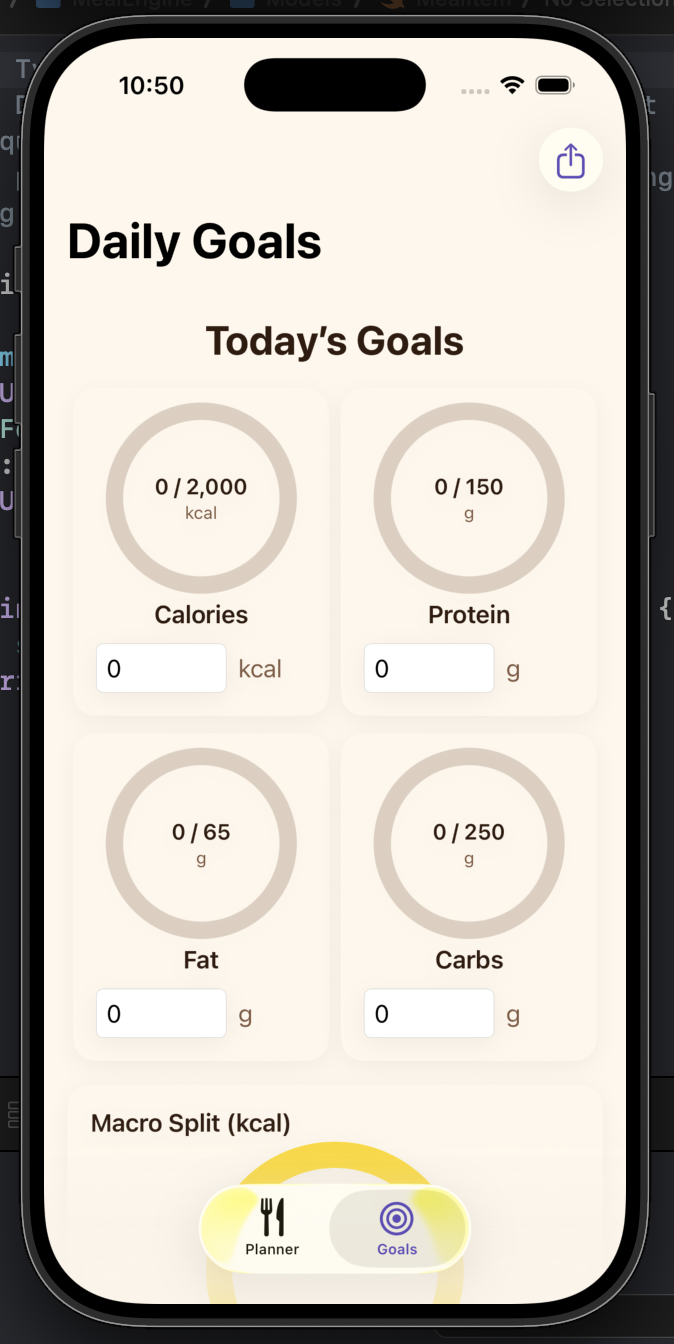
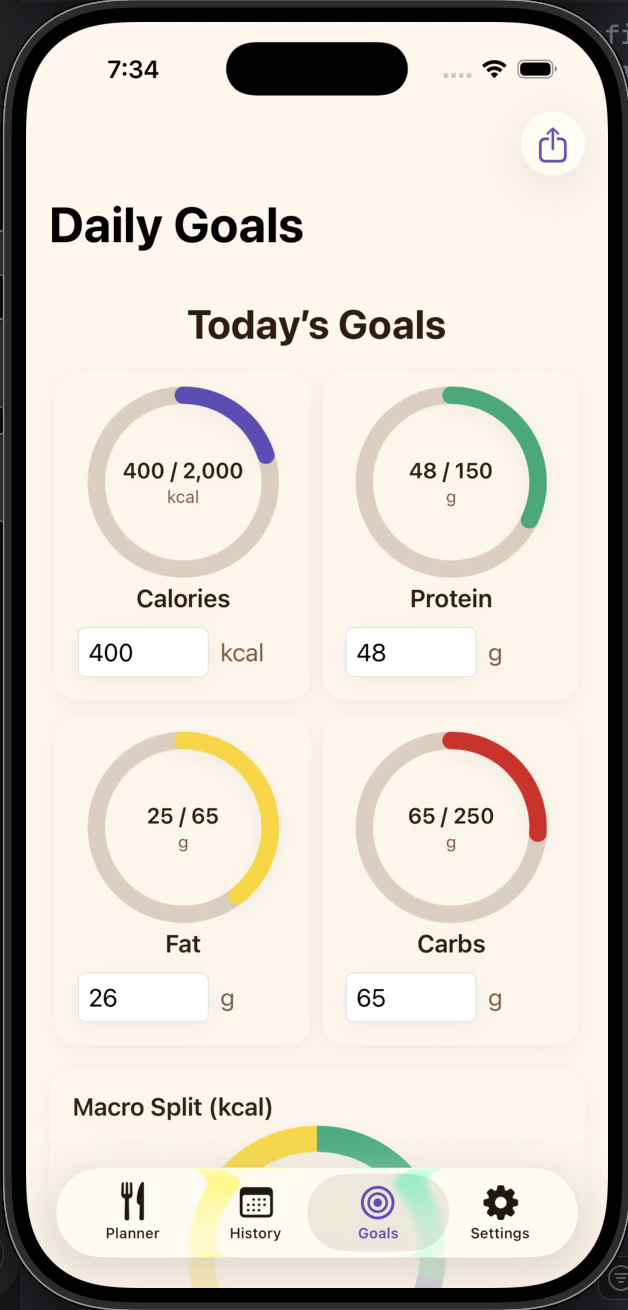
recover: restore README.md from dangling commit d2a2eb7

diff --git a/README.md b/README.md
@@ -1,31 +1,45 @@
 # MealEngine
-
-**MealEngine** is a Swift-based iOS app designed to help users optimize their meals based on personal health and dietary goals. Built with SwiftUI and leveraging the power of algorithms and persistent data storage, MealEngine provides a personalized meal-planning experience.
+**MealEngine** is a Swift-based iOS app designed to help users **meet their dietary goals before (not after) meals are consumed**. Unlike traditional calorie trackers that analyze past behavior, MealEngine meets and supports users where they are. The app leverages a Knapsack optimization algorithm to recommend meals in real time that respect user-defined goals.
 
 ---
 
 ## App Features
+1. **Personalized Goal Engine**
+• Calculates TDEE (Total Daily Energy Expenditure)
+• Defines calorie and macronutrient targets
 
-- ⚖**Optimizes meal plans** using the **Knapsack algorithm** to balance nutrition (calories, protein, fat, carbs) according to user-defined goals.
-- **Integrates with a food API** to fetch real-world food data.
-- **Persistent storage** to save user preferences and meal plans locally.
-- Beautiful UI with **3 custom colors** and a clean, modern layout.
-- Utilizes 4 data types:  
-  - `Double` for quantities and calorie counts  
-  - `String` for food names and user preferences  
-  - `Bool` for dietary filters and toggles  
-  - Custom `Food` type for modeling nutrition info
-- **3 Main Screens**:
-  - **Welcome / Goal Setup** – set dietary goals and preferences
-  - **Meal Planner** – select, edit, and generate meal plans
-  - **Summary / Recommendations** – view optimized meals and stats
+2. **Knapsack Optimization Algorithm**
+• **Selects optimal food combinations** to meet calorie, protein, fat, or carbs target
+• Maximizes nutrition while respecting constraints
+
+3. **Real-Time Food Data Integration**
+• Fetches nutritional data from external Food API
+• Supports a wide range of food options
+
+4. **User Persistence**
+• Stores dietary preferences and restrictions locally
+• Maintains historical data for contunuity
+
+5. **Core Views**
+• Planner View - Home page for user good and target selection
+• Calendar View - Track dietary consistency
+• Settings View - Manage prefernces and goals
+
+## Core Concept
+MealEngine transforms nutrition from a reactive tracking process into a proactive decision-making system, ensuring every meal constributs toward the user's health goals.
+
+## Tech Stack
+• Swift
+• SwiftUI
+• Local Persistence (UserDefaults / file storage)
+• REST API integration
+• Optimization algorithms (Knapsack)
+• Storage: `UserDefaults`, `Codable`, `@AppStorage`
 
 ---
 
 ## Core UI Elements
-
-MealEngine uses **8–9 essential SwiftUI elements** for interaction and layout:
-
+MealEngine uses **8–9 essential SwiftUI elements** for interraction and layout:
 - `Text`
 - `TextField`
 - `Toggle`
@@ -33,59 +47,30 @@ MealEngine uses **8–9 essential SwiftUI elements** for interaction and layout:
 - `Picker`
 - `Button`
 - `List`
-- `NavigationStack`
+- `NavigationView`
 - `Image`
 
 ---
 
-## Persistent Storage
-
-User data is saved using **Swift's `@AppStorage` and `Codable` with `UserDefaults`**, enabling:
-
-- Saving selected foods
-- Remembering goals and settings
-- Loading past meal plans at launch
-
----
-
-## Optimization Logic
-
-Meal plans are optimized using a **0/1 Knapsack algorithm**, which selects the best combination of foods to meet:
-
-- A calorie target
-- Macronutrient ratios (protein, fat, carbs)
-- User-defined filters (e.g., vegetarian, low-carb)
-
----
-
-## Custom Colors
-
-The app uses a consistent theme with **3 main custom colors** for branding and visual consistency.
-
----
-
 ## Screenshots
-
-![Home Screen](images/screenshot1.png)
-
-## Technologies
-
-- **Language**: Swift 5
-- **UI Framework**: SwiftUI
-- **Xcode**: 15+
-- **Food API**: e.g., [OpenFoodFacts](https://world.openfoodfacts.org/data)
-- **Storage**: `UserDefaults`, `Codable`, `@AppStorage`
-- **Algorithm**: Knapsack for dietary optimization
+![Home Screen](images/homeview.png)
+![Home Screen](images/goalsview.png)
+![Home Screen](images/settingsview.png)
+![Home Screen](images/calendarview.png)
+![Home Screen](images/historyw.png)
+![Home Screen](images/inputvalidation.png)
+![Home Screen](images/TDEEcalculatorview.png)
 
 ---
 
 ## Installation
-
 1. Clone the repository:
-   ```bash 
+   ``bash 
    git clone git@github.com:3takita/CPSC491_MealEngine.git
 2. Open the project in Xcode: open MealEngine.xcodeproj
-3. Run on a simulator or physical iPhone.
+3. Run on a simulator or physical iPhone.``
+
+--
 
 ## Group Members and Contributors
 -  `Stephen Anaba`
@@ -93,5 +78,7 @@ The app uses a consistent theme with **3 main custom colors** for branding and v
 -  `Yixu Chen`
 -  `Andrew Kim`
 
+---
+
 ## License:
-	This project is licensed under the MIT License. See LICENSE file for details.
+This project is licensed under the MIT License. See LICENSE file for details.
